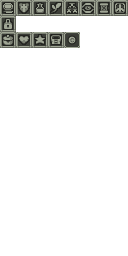
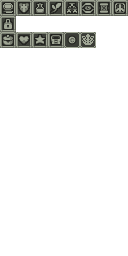
提价后续调整资源 （submit resources）

Changed region(s): [[0.625, 0.125, 0.75, 0.1875]]

diff --git a/RemixedDungeon/src/main/java/com/nyrds/pixeldungeon/items/accessories/PlagueDoctorMaskHood.java b/RemixedDungeon/src/main/java/com/nyrds/pixeldungeon/items/accessories/PlagueDoctorMaskHood.java
@@ -1,6 +1,7 @@
 package com.nyrds.pixeldungeon.items.accessories;
 
 
+import com.nyrds.util.Util;
 import com.watabou.pixeldungeon.Badges;
 
 public class PlagueDoctorMaskHood extends Accessory{
@@ -17,6 +18,9 @@ public class PlagueDoctorMaskHood extends Accessory{
     }
 
     public boolean haveIt() {
+        if (Util.isDebug()){
+            return true;
+        }
         return Badges.isUnlocked(Badges.Badge.DOCTOR_QUEST_COMPLETED);
     }
 }

diff --git a/RemixedDungeon/src/main/java/com/nyrds/pixeldungeon/items/accessories/MedicineMask.java b/RemixedDungeon/src/main/java/com/nyrds/pixeldungeon/items/accessories/MedicineMask.java
@@ -1,5 +1,6 @@
 package com.nyrds.pixeldungeon.items.accessories;
 
+import com.nyrds.util.Util;
 import com.watabou.pixeldungeon.Badges;
 
 public class MedicineMask extends Accessory {
@@ -15,6 +16,9 @@ public class MedicineMask extends Accessory {
 
     @Override
     public boolean haveIt() {
+        if (Util.isDebug()){
+            return true;
+        }
         return Badges.isUnlocked(Badges.Badge.DOCTOR_QUEST_COMPLETED);
     }
 }

diff --git a/RemixedDungeon/src/main/java/com/nyrds/pixeldungeon/items/accessories/PlagueDoctorMask.java b/RemixedDungeon/src/main/java/com/nyrds/pixeldungeon/items/accessories/PlagueDoctorMask.java
@@ -1,6 +1,7 @@
 package com.nyrds.pixeldungeon.items.accessories;
 
 
+import com.nyrds.util.Util;
 import com.watabou.pixeldungeon.Badges;
 
 public class PlagueDoctorMask extends Accessory{
@@ -17,6 +18,9 @@ public class PlagueDoctorMask extends Accessory{
     }
 
     public boolean haveIt() {
+        if (Util.isDebug()){
+            return true;
+        }
         return Badges.isUnlocked(Badges.Badge.DOCTOR_QUEST_COMPLETED);
     }
 }
